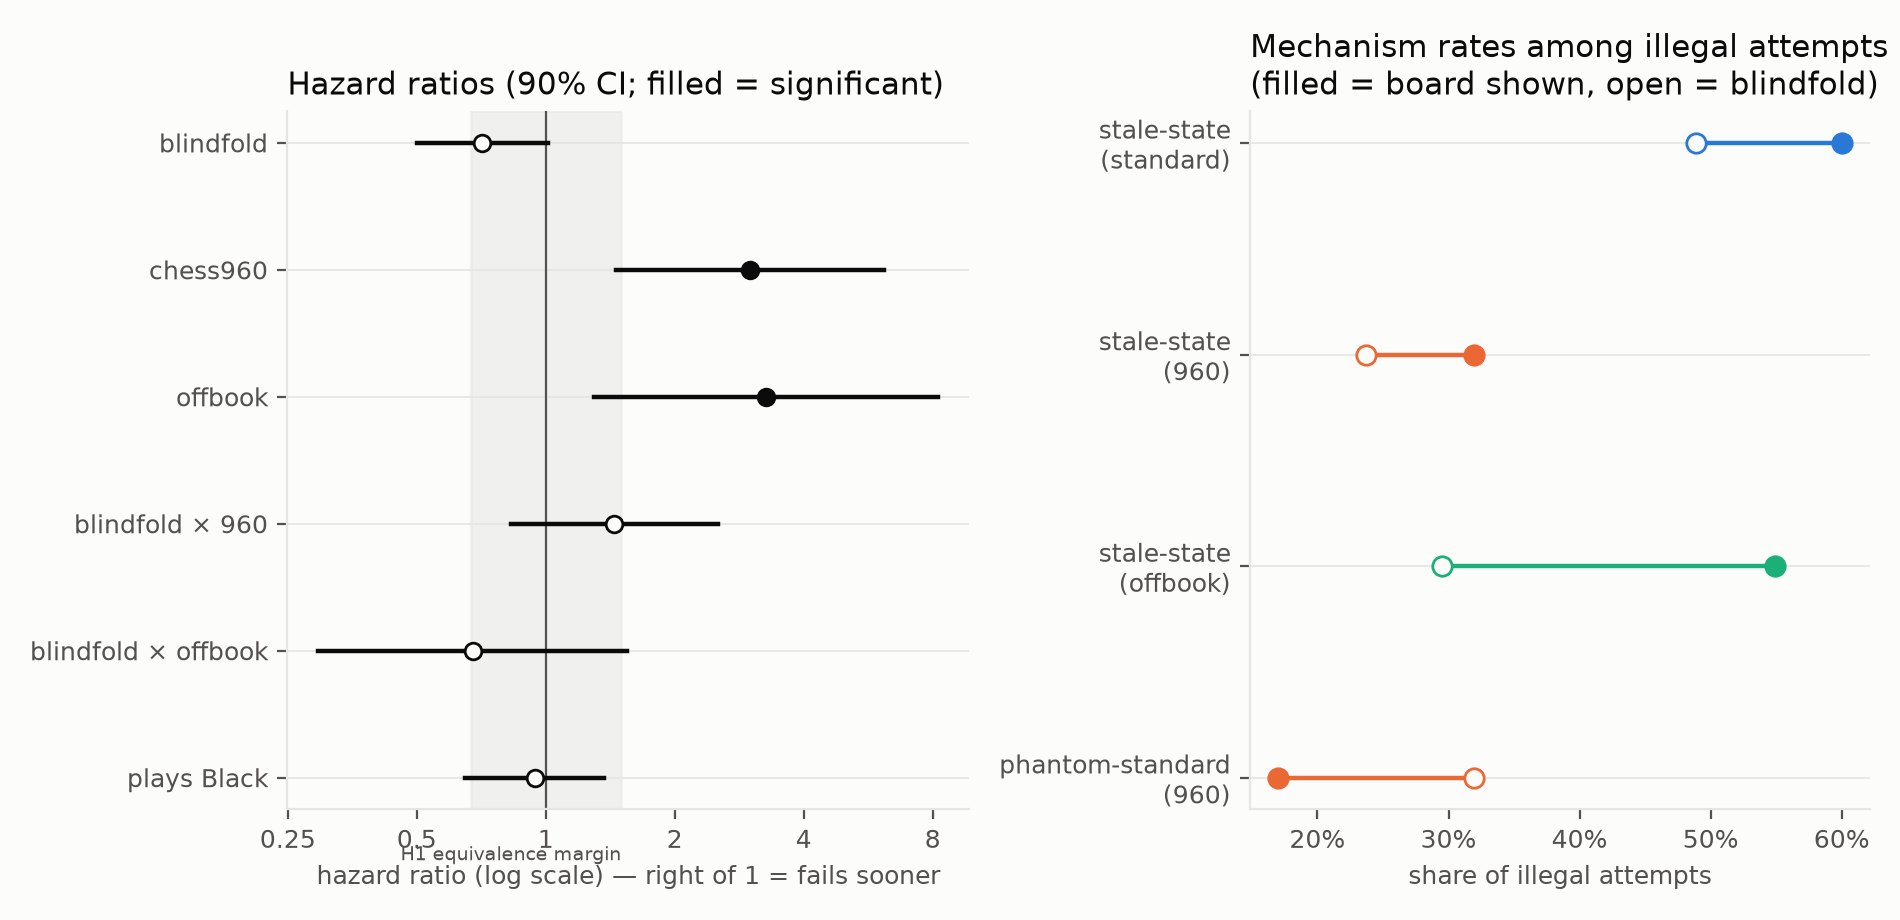
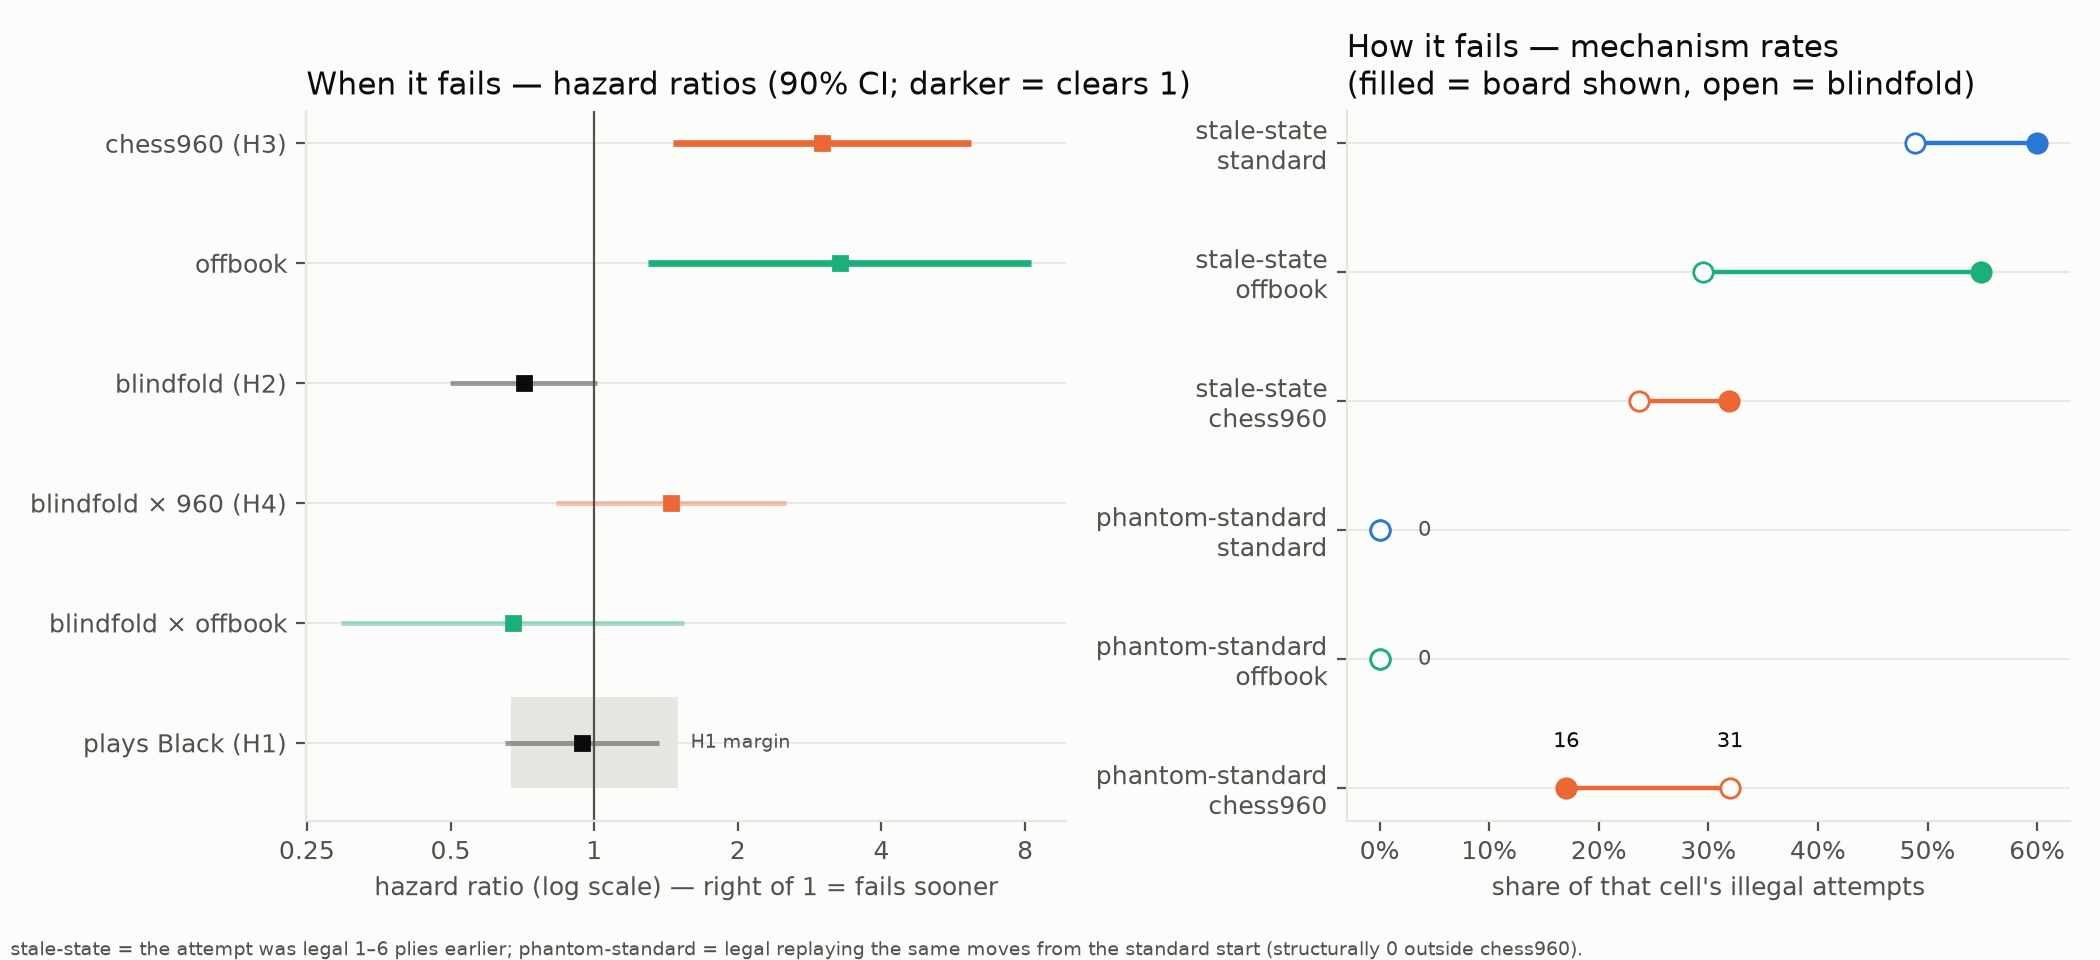
Unified-grammar effects figure replaces the means figure in the README
One figure, two panels, one grammar: fill = board visibility everywhere,
hue = variant identity; panel A (when it fails) uses solid squares for
coefficients with significance carried by position vs HR=1 and interval
ink, prereg tags on rows, and the equivalence band reduced to a labeled
strip behind the plays-Black row; panel B (how it fails) shows the full
taxonomy truth including the structural phantom zeros pinned at 0% and
counts on the chess960 phantom dots.

Claude-Session: https://claude.ai/code/session_013ZNtfBskVgkuLRLCZJ9ZAf

diff --git a/chessbench/analysis.py b/chessbench/analysis.py
@@ -284,81 +284,106 @@ def means_plot(df, out_path: Path) -> None:
 
 
 def effects_figure(summary, illegals: list[dict], out_path: Path) -> None:
-    """Left: forest plot of the pre-registered Cox effects (log-HR scale,
-    H1 equivalence band). Right: mechanism-rate dumbbells (stale-state and
-    phantom-standard shares of illegal attempts, board -> blindfold)."""
+    """One figure, two panels, one visual grammar. Panel A: WHEN it fails
+    (Cox hazard ratios). Panel B: HOW it fails (mechanism rates). Encodings
+    mean exactly one thing everywhere: fill = board visibility (filled =
+    board shown, open = blindfold), hue = variant identity. Panel A rows are
+    model coefficients, not cells, so they use a different mark (small solid
+    squares); significance is carried by position vs HR=1, with clearing
+    intervals inked darker than straddling ones."""
     import matplotlib
     matplotlib.use("Agg")
     import matplotlib.pyplot as plt
+    from matplotlib.patches import Rectangle
     import numpy as np
 
-    fig, (axf, axm) = plt.subplots(1, 2, figsize=(9.5, 4.6), dpi=200,
-                                   gridspec_kw={"width_ratios": [1.1, 1.0]})
+    fig, (axf, axm) = plt.subplots(1, 2, figsize=(10.5, 4.8), dpi=200,
+                                   gridspec_kw={"width_ratios": [1.05, 1.0]})
 
-    # --- forest ---
+    # ---------------- Panel A: when it fails ----------------
+    ROWS = [
+        ("v960", "chess960 (H3)", VARIANT_COLOR["chess960"]),
+        ("voffbook", "offbook", VARIANT_COLOR["standard-offbook"]),
+        ("blind", "blindfold (H2)", INK),
+        ("blind_x_960", "blindfold \u00d7 960 (H4)", VARIANT_COLOR["chess960"]),
+        ("blind_x_offbook", "blindfold \u00d7 offbook", VARIANT_COLOR["standard-offbook"]),
+        ("black", "plays Black (H1)", INK),
+    ]
     if summary is not None:
-        label_map = {
-            "blind": "blindfold", "v960": "chess960", "voffbook": "offbook",
-            "blind_x_960": "blindfold × 960", "blind_x_offbook": "blindfold × offbook",
-            "black": "plays Black",
-        }
-        names = [n for n in label_map if n in summary.index]
-        ys = np.arange(len(names))[::-1]
-        axf.axvspan(np.log(EQUIV_MARGIN[0]), np.log(EQUIV_MARGIN[1]),
-                    color=GRID, alpha=0.5, zorder=0)
-        axf.axvline(0, color=INK_2, linewidth=0.8)
-        for yi, n in zip(ys, names):
-            row = summary.loc[n]
-            lo, hi = row.get("coef lower 90%"), row.get("coef upper 90%")
+        rows = [(n, lab, c) for n, lab, c in ROWS if n in summary.index]
+        ys = np.arange(len(rows))[::-1]
+        for yi, (name, lab, color) in zip(ys, rows):
+            r = summary.loc[name]
+            lo, hi = r.get("coef lower 90%"), r.get("coef upper 90%")
             sig = lo is not None and (lo > 0 or hi < 0)
-            axf.plot([lo, hi], [yi, yi], color=INK, linewidth=1.6)
-            axf.plot(row["coef"], yi, "o", color=INK, markersize=6,
-                     markerfacecolor=INK if sig else SURFACE)
+            axf.plot([lo, hi], [yi, yi], color=color, solid_capstyle="butt",
+                     linewidth=2.4 if sig else 1.8, alpha=1.0 if sig else 0.38)
+            axf.plot(r["coef"], yi, "s", color=color, markersize=5, zorder=3)
+            if name == "black":
+                # The equivalence band belongs to this test alone: a small
+                # labeled strip behind the plays-Black row.
+                axf.add_patch(Rectangle((np.log(EQUIV_MARGIN[0]), yi - 0.38),
+                                        np.log(EQUIV_MARGIN[1]) - np.log(EQUIV_MARGIN[0]),
+                                        0.76, facecolor=GRID, edgecolor="none", zorder=0))
+                axf.text(np.log(EQUIV_MARGIN[1]) + 0.06, yi, "H1 margin",
+                         fontsize=6.8, color=INK_2, va="center")
+        axf.axvline(0, color=INK_2, linewidth=0.8)
         axf.set_yticks(ys)
-        axf.set_yticklabels([label_map[n] for n in names], fontsize=9, color=INK)
+        axf.set_yticklabels([lab for _, lab, _ in rows], fontsize=9, color=INK)
         ticks = [0.25, 0.5, 1, 2, 4, 8]
         axf.set_xticks([np.log(t) for t in ticks])
         axf.set_xticklabels([str(t) for t in ticks])
-        _style_ax(axf, "Hazard ratios (90% CI; filled = significant)",
-                  "hazard ratio (log scale) — right of 1 = fails sooner", "")
-        axf.text(np.log(EQUIV_MARGIN[1]), ys[-1] - 0.65, "H1 equivalence margin",
-                 fontsize=7, color=INK_2, ha="right")
+        _style_ax(axf, "When it fails \u2014 hazard ratios (90% CI; darker = clears 1)",
+                  "hazard ratio (log scale) \u2014 right of 1 = fails sooner", "")
     else:
         axf.text(0.5, 0.5, "no Cox fit", ha="center", color=INK_2)
 
-    # --- mechanism dumbbells ---
-    rows = []  # (label, variant, rate_board, rate_blind)
-    for metric, fn, variants in (
-        ("stale-state", stale_state, ("standard", "chess960", "standard-offbook")),
-        ("phantom-standard", None, ("chess960",)),
-    ):
-        for variant in variants:
-            rates = {}
-            for vis in ("history+board", "history-only"):
-                pool = [a for a in illegals if a["variant"] == variant and a["visibility"] == vis]
-                if not pool:
-                    continue
-                if metric == "stale-state":
-                    hits = sum(stale_state(a) for a in pool)
-                else:
-                    hits = sum(phantom_standard(a["history"], a["candidate"]) for a in pool)
-                rates[vis] = hits / len(pool)
-            if len(rates) == 2:
-                short = {"standard": "standard", "chess960": "960", "standard-offbook": "offbook"}[variant]
-                rows.append((f"{metric}\n({short})", variant,
-                             rates["history+board"], rates["history-only"]))
-    ys = np.arange(len(rows))[::-1]
-    for yi, (label, variant, rb, rbl) in zip(ys, rows):
-        color = VARIANT_COLOR.get(variant, INK_2)
-        axm.plot([rb, rbl], [yi, yi], color=color, linewidth=1.6, zorder=1)
+    # ---------------- Panel B: how it fails ----------------
+    ORDER = ["standard", "standard-offbook", "chess960"]
+    SHORT = {"standard": "standard", "standard-offbook": "offbook", "chess960": "chess960"}
+
+    def cell_stats(metric, variant, vis):
+        pool = [a for a in illegals if a["variant"] == variant and a["visibility"] == vis]
+        if not pool:
+            return None, 0, 0
+        if metric == "stale-state":
+            hits = sum(stale_state(a) for a in pool)
+        else:
+            hits = sum(phantom_standard(a["history"], a["candidate"]) for a in pool)
+        return hits / len(pool), hits, len(pool)
+
+    rows_b = [("stale-state", v) for v in ORDER] + [("phantom-standard", v) for v in ORDER]
+    ys = np.arange(len(rows_b))[::-1]
+    labels_b = []
+    for yi, (metric, variant) in zip(ys, rows_b):
+        color = VARIANT_COLOR[variant]
+        rb, hb, nb = cell_stats(metric, variant, "history+board")
+        rl, hl_, nl = cell_stats(metric, variant, "history-only")
+        labels_b.append(f"{metric}\n{SHORT[variant]}")
+        if rb is None or rl is None:
+            continue
+        axm.plot([rb, rl], [yi, yi], color=color, linewidth=1.6, zorder=1)
         axm.plot(rb, yi, "o", color=color, markersize=7, zorder=2)
-        axm.plot(rbl, yi, "o", color=color, markersize=7, markerfacecolor=SURFACE, zorder=2)
+        axm.plot(rl, yi, "o", color=color, markersize=7, markerfacecolor=SURFACE, zorder=2)
+        if metric == "phantom-standard":
+            # Counts on the dots that matter \u2014 including the structural zeros,
+            # so "phantoms exist only in chess960" is drawn, not implied.
+            if hb == 0 and hl_ == 0:
+                axm.text(0.035, yi, "0", fontsize=7.5, color=INK_2, va="center")
+            else:
+                axm.text(rb, yi + 0.32, str(hb), fontsize=7.5, color=INK, ha="center")
+                axm.text(rl, yi + 0.32, str(hl_), fontsize=7.5, color=INK, ha="center")
     axm.set_yticks(ys)
-    axm.set_yticklabels([r[0] for r in rows], fontsize=8.5, color=INK)
+    axm.set_yticklabels(labels_b, fontsize=8.5, color=INK)
+    axm.set_xlim(-0.03, None)
     axm.xaxis.set_major_formatter(lambda x, _: f"{x:.0%}")
-    _style_ax(axm, "Mechanism rates among illegal attempts\n(filled = board shown, open = blindfold)",
-              "share of illegal attempts", "")
-    fig.tight_layout()
+    _style_ax(axm, "How it fails \u2014 mechanism rates\n(filled = board shown, open = blindfold)",
+              "share of that cell's illegal attempts", "")
+    fig.text(0.005, 0.005,
+             "stale-state = the attempt was legal 1\u20136 plies earlier; phantom-standard = legal replaying "
+             "the same moves from the standard start (structurally 0 outside chess960).",
+             fontsize=6.8, color=INK_2)
+    fig.tight_layout(rect=(0, 0.03, 1, 1))
     fig.savefig(out_path)
     plt.close(fig)
 

diff --git a/README.md b/README.md
@@ -100,7 +100,7 @@ never leaks board state into the blindfold cells.
 
 ![Every game, qwen2.5:7b](docs/results/qwen25-7b-pilot/games.png)
 
-![Mean moves to first illegal attempt, qwen2.5:7b](docs/results/qwen25-7b-pilot/means.png)
+![When and how it fails, qwen2.5:7b](docs/results/qwen25-7b-pilot/effects.png)
 
 #### How to read the numbers
 
